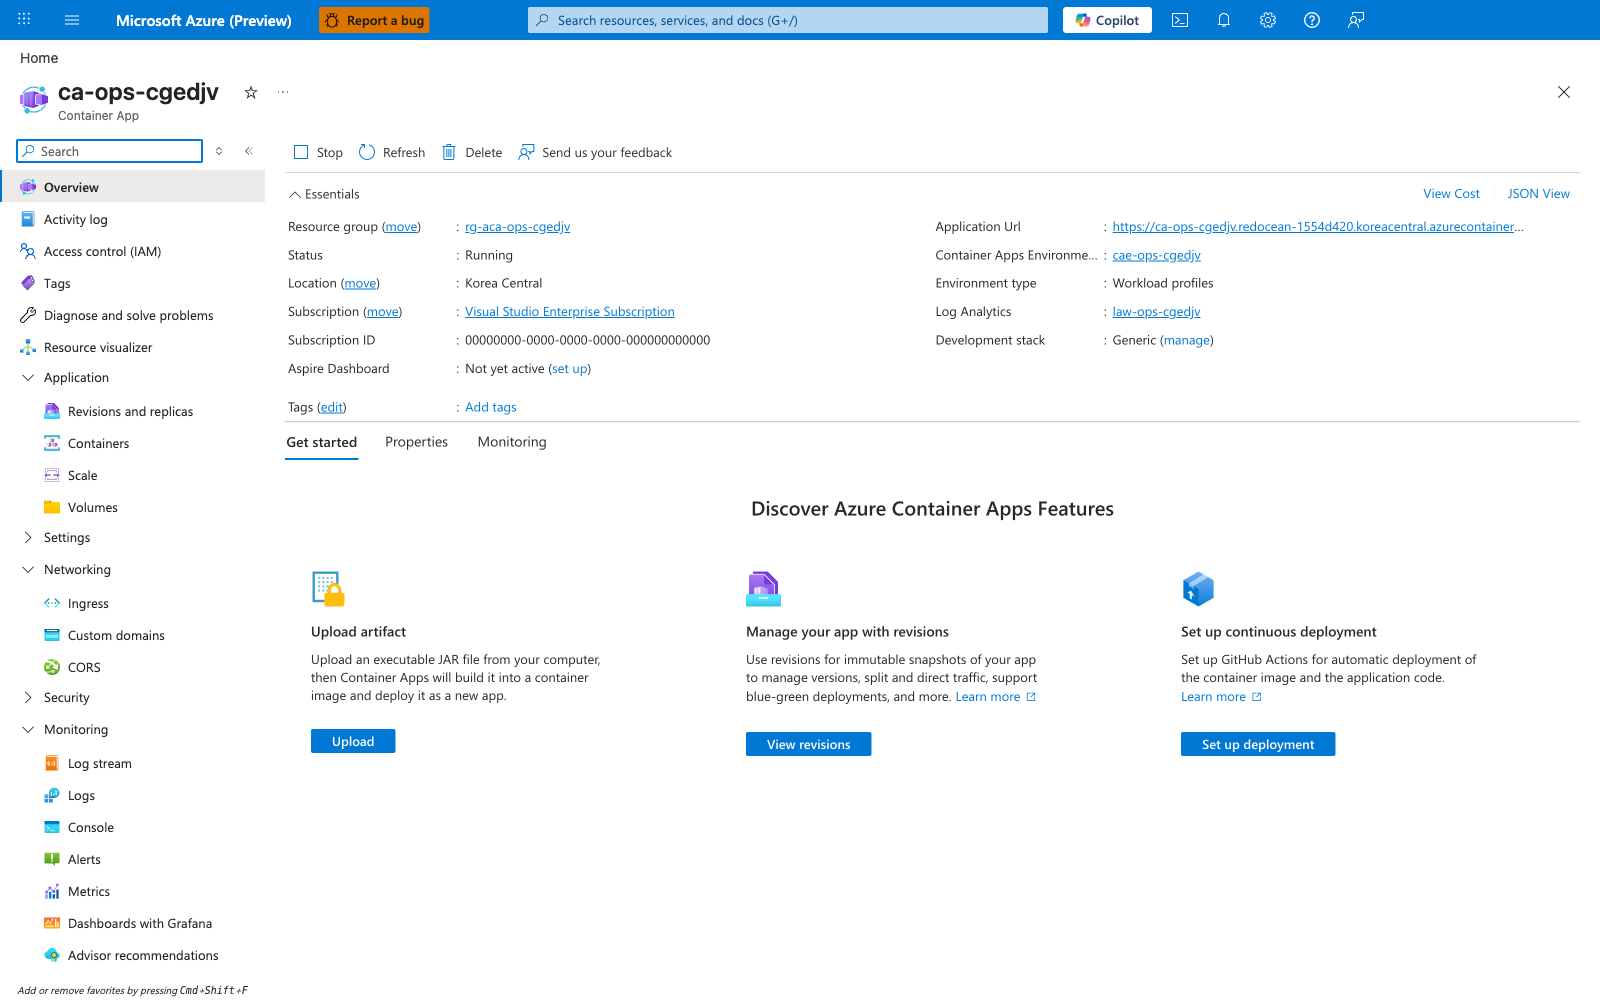
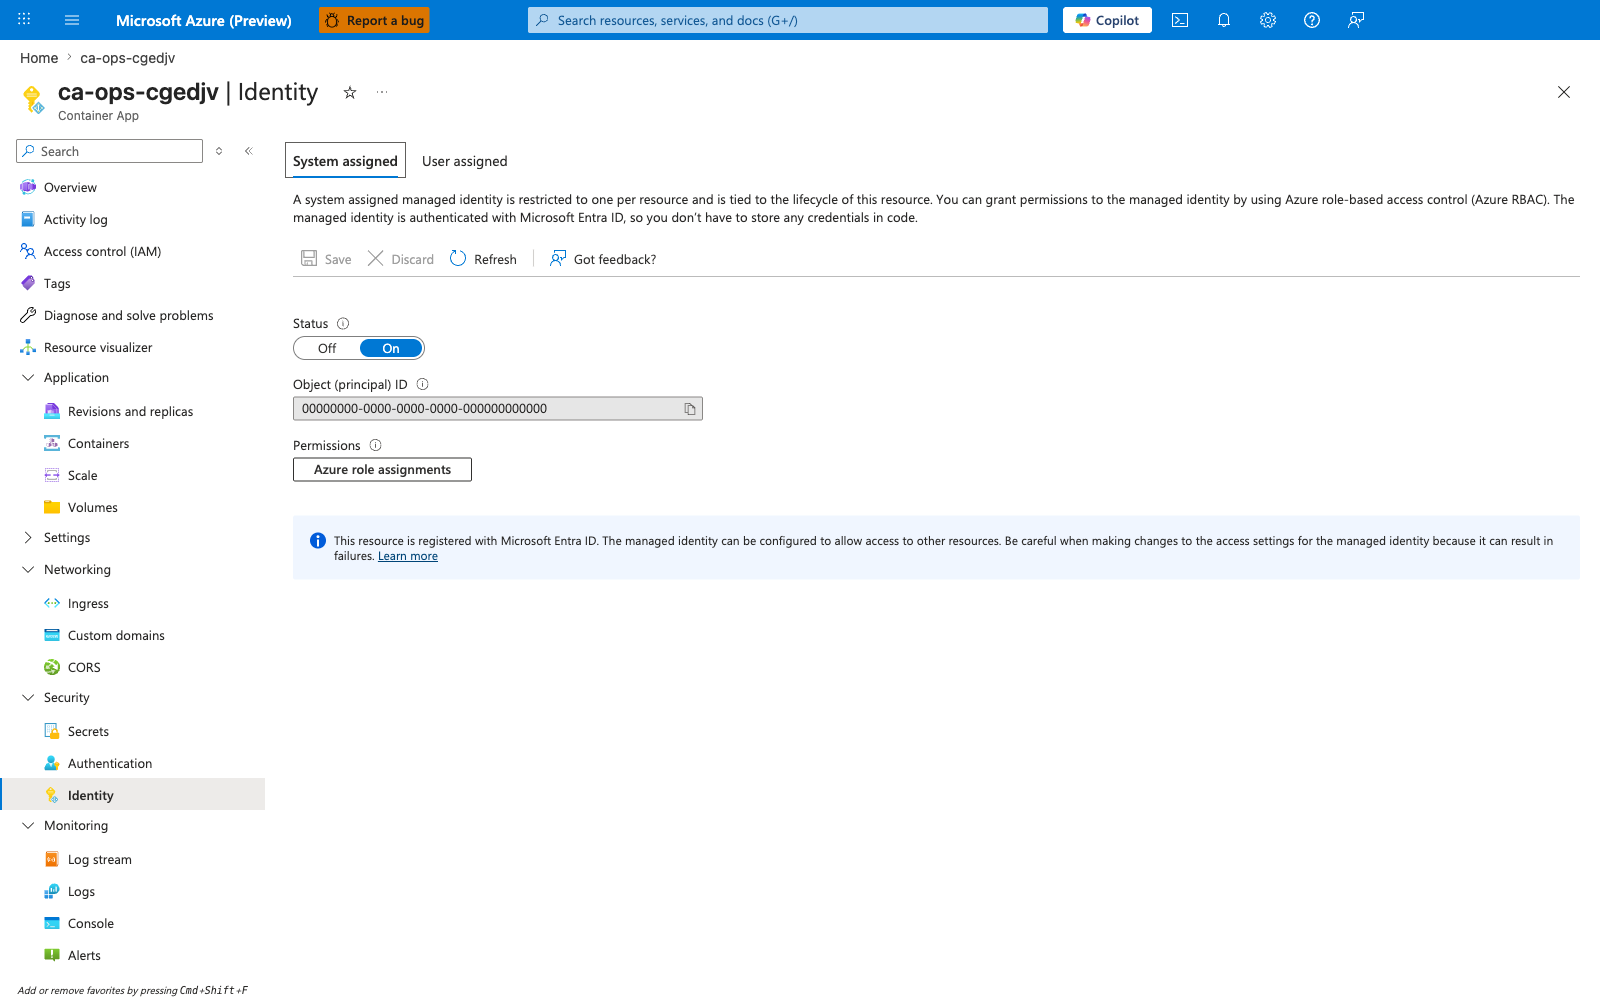
docs: address Oracle review on first-10-minutes captures
- Recapture Step 7 with actual Identity blade (was Overview)
- Split each Portal view block into separate [Observed]/[Inferred]/[Not Proven] paragraphs
- Remove unverified claims (typical lag 1-3 minutes, healthy baseline as Observed, externally resolvable FQDN as Observed)
- Add explicit [Not Proven] paragraphs to Steps 1, 2, 5
- Add note under Step 8 explaining intentional CLI-only coverage

diff --git a/docs/troubleshooting/first-10-minutes/index.md b/docs/troubleshooting/first-10-minutes/index.md
@@ -87,7 +87,11 @@ Navigate: **Container App → Application → Revisions and replicas → Active 
 
 ![Revisions and replicas blade showing one active revision in Running state with 100% traffic and 1 replica](../../assets/troubleshooting/first-10-minutes/01-revisions-and-replicas.png)
 
-`[Observed]` The **Active revisions** tab lists the revision `ca-ops-cgedjv--dkckziz` with **Running status: Running**, **Traffic: 100%**, and **Replicas: 1**. This is the healthy baseline — a single active revision serving all traffic with at least one healthy replica. If the latest revision is missing, shows `Provisioning failed`, or is split into multiple competing revisions, jump to the playbook linked above.
+`[Observed]` The **Active revisions** tab lists the revision `ca-ops-cgedjv--dkckziz` with **Running status: Running**, **Traffic: 100%**, and **Replicas: 1**.
+
+`[Inferred]` A single active revision serving 100% of traffic with a Running replica is the expected steady state for this app, so this snapshot is consistent with a healthy deployment. If the latest revision is missing, shows `Provisioning failed`, or is split into multiple competing revisions, jump to the playbook linked above.
+
+`[Not Proven]` This blade does not confirm that the replica is **handling requests successfully** — only that the platform considers it Running. End-to-end health requires a probe response or a request-log entry (see Step 6 and Step 3).
 
 ## 2) Replica Status
 
@@ -117,7 +121,11 @@ Navigate: **Container App → Application → Revisions and replicas → Replica
 
 ![Replicas tab showing one running replica with revision and creation timestamp](../../assets/troubleshooting/first-10-minutes/02-replicas-tab.png)
 
-`[Observed]` The **Replicas** tab lists a single replica `ca-ops-cgedjv--dkckziz-5f495449d5-vpjzs` in **Running** state. Use this view to confirm replicas are long-lived. `[Inferred]` If you refresh the blade every 30 seconds and see the replica name change repeatedly (different pod-hash suffix), the container is crash-looping even though the revision shows healthy. That symptom maps to [Container Start Failure](../playbooks/startup-and-provisioning/container-start-failure.md).
+`[Observed]` The **Replicas** tab lists a single replica `ca-ops-cgedjv--dkckziz-5f495449d5-vpjzs` in **Running** state, tied to the active revision.
+
+`[Inferred]` If you refresh the blade every 30 seconds and see the replica name change repeatedly (different pod-hash suffix), the container is crash-looping even though the revision shows healthy. That symptom maps to [Container Start Failure](../playbooks/startup-and-provisioning/container-start-failure.md).
+
+`[Not Proven]` A single observation of one Running replica does not prove the replica is long-lived; only repeated refreshes (or `kubectl`-style restart counters, which this blade does not expose) can confirm stability over time.
 
 ## 3) Container Logs
 
@@ -153,7 +161,11 @@ Navigate: **Container App → Monitoring → Log stream**.
 
 ![Log stream blade with replica/container selectors and live stdout/stderr output area](../../assets/troubleshooting/first-10-minutes/03-log-stream.png)
 
-`[Observed]` The **Log stream** blade lets you pick **Replica** and **Container** from drop-downs, then streams stdout/stderr in real time without waiting for Log Analytics ingestion. Use this when a replica has just started and Log Analytics has not yet received the first records (typical lag: 1-3 minutes). `[Not Proven]` Log stream does not show **historical** logs — only what arrives after you open the blade. For root-cause analysis of a past failure, switch to the **Logs** blade and query `ContainerAppConsoleLogs_CL`.
+`[Observed]` The **Log stream** blade exposes **Replica** and **Container** dropdowns above a console area that renders incoming stdout/stderr from the selected target.
+
+`[Inferred]` This surface is the right tool when a replica has just started and you need output immediately — it subscribes to the live log channel rather than querying ingested data, so it avoids whatever ingestion delay the workspace currently has.
+
+`[Not Proven]` The blade does not show **historical** logs — only what arrives after you open it — and the exact ingestion lag for the same lines to appear in `ContainerAppConsoleLogs_CL` is not visible here. For past failures, query the workspace through the **Logs** blade.
 
 ## 4) Image Pull
 
@@ -185,7 +197,11 @@ Navigate: **Container App → Application → Containers → Properties**.
 
 ![Containers Properties tab showing Registry login server, Image and tag fields, and resource allocation](../../assets/troubleshooting/first-10-minutes/04-containers-image-config.png)
 
-`[Observed]` The **Properties** tab under **Containers** shows the **Registry login server** (`mcr.microsoft.com`) and **Image and tag** (`k8se/quickstart:latest`) the platform is attempting to pull. `[Inferred]` If the value here does not match what you pushed, the most recent revision was created from a stale template — check your CI/CD pipeline or `az containerapp update --image` step. `[Not Proven]` This blade only shows the **configured** image reference; whether the pull succeeded must still be verified through system logs (the CLI command above) or the Activity log.
+`[Observed]` The **Properties** tab under **Containers** shows the **Registry login server** (`mcr.microsoft.com`) and **Image and tag** (`k8se/quickstart:latest`) currently configured on the active revision, along with the CPU/memory allocation for the container.
+
+`[Inferred]` If the values here do not match what your last CI/CD run pushed, the most recent revision was created from a stale template — re-check the `az containerapp update --image` step (or equivalent IaC) in the pipeline.
+
+`[Not Proven]` This blade only shows the **configured** image reference; it does not prove the pull actually succeeded. Pull success must still be verified through system logs (the CLI command above) or the Activity log.
 
 ## 5) Ingress Configuration
 
@@ -207,7 +223,11 @@ Navigate: **Container App → Networking → Ingress**.
 
 ![Ingress blade showing Ingress enabled, traffic accepting from Anywhere, target port 80, and transport Auto](../../assets/troubleshooting/first-10-minutes/05-ingress.png)
 
-`[Observed]` The **Ingress** blade shows the binary toggle (**Ingress**: enabled), the traffic-source dropdown (**Accepting traffic from**: Anywhere = external), and the **Target port** field (`80`). The **Application Url** at the top of the blade is the externally resolvable FQDN. `[Inferred]` Three common misconfigurations are visible here at a glance: (1) toggle off → no FQDN issued, (2) **Accepting traffic from** set to **VNet** while you are testing from the public internet → DNS resolves but connection times out, (3) **Target port** does not match the port your app listens on (e.g. app binds `8000` but ingress points at `80`) → connections reset with no app logs.
+`[Observed]` The **Ingress** blade shows **Ingress: enabled**, **Accepting traffic from: Anywhere**, **Target port: 80**, **Transport: Auto**, and an **Application Url** field at the top of the blade.
+
+`[Inferred]` Because **Accepting traffic from** is set to **Anywhere**, the displayed Application Url should be reachable from the public internet — this is the externally exposed FQDN for the app. Three common misconfigurations are visible here at a glance: (1) toggle off → no FQDN issued, (2) **Accepting traffic from** set to **VNet** while you are testing from the public internet → DNS resolves but connection times out, (3) **Target port** does not match the port your app listens on (e.g. app binds `8000` but ingress points at `80`) → connections reset with no app logs.
+
+`[Not Proven]` This blade does not prove the FQDN actually resolves in public DNS or that an HTTP request reaches the container — confirm with `curl -v https://<fqdn>/` from outside the VNet.
 
 ## 6) Health Probes
 
@@ -232,7 +252,11 @@ Navigate: **Container App → Application → Containers → Health probes**.
 
 ![Containers Health probes tab showing Startup, Liveness, and Readiness probe configuration](../../assets/troubleshooting/first-10-minutes/06-health-probes.png)
 
-`[Observed]` The **Health probes** tab exposes the three probe types (**Startup**, **Liveness**, **Readiness**) and lets you inspect each one's transport (HTTP/TCP/gRPC), path, port, and timing fields without parsing JSON. `[Inferred]` This is the fastest way to spot the three classic probe mistakes: (1) path returns 404 in the app's router → readiness flaps, (2) **Startup probe** timeout shorter than actual boot time (e.g. 30 s for an app that needs 60 s to warm a model) → revision never goes Ready, (3) probe **Port** does not match the container's listening port → TCP probe succeeds (port open) but HTTP probe fails. `[Not Proven]` The Portal does not show **historical** probe results; for that, query `ContainerAppSystemLogs_CL | where Reason_s in ("LivenessProbeFailed","ReadinessProbeFailed","StartupProbeFailed")` in Log Analytics.
+`[Observed]` The **Health probes** tab under **Containers** lists the three probe types — **Startup**, **Liveness**, **Readiness** — and exposes each one's transport (HTTP/TCP/gRPC), path, port, and timing fields without requiring you to parse the revision JSON.
+
+`[Inferred]` This view is the fastest way to catch the three classic probe mistakes: (1) path returns 404 in the app's router → readiness flaps, (2) **Startup probe** timeout shorter than actual boot time (e.g. 30 s for an app that needs 60 s to warm a model) → revision never goes Ready, (3) probe **Port** does not match the container's listening port → TCP probe succeeds (port open) but HTTP probe fails.
+
+`[Not Proven]` The Portal does not show **historical** probe results; for that, query `ContainerAppSystemLogs_CL | where Reason_s in ("LivenessProbeFailed","ReadinessProbeFailed","StartupProbeFailed")` in Log Analytics.
 
 ## 7) Registry Authentication
 
@@ -253,9 +277,13 @@ az role assignment list --scope "$(az acr show --name "$ACR_NAME" --query id --o
 
 Navigate: **Container App → Settings → Identity**.
 
-![Identity blade showing system-assigned managed identity enabled with Object ID and Permissions Azure role assignments link](../../assets/troubleshooting/first-10-minutes/07-identity.png)
+![Identity blade System assigned tab showing Status On, Object principal ID, and an Azure role assignments button](../../assets/troubleshooting/first-10-minutes/07-identity.png)
 
-`[Observed]` The **System assigned** tab shows **Status: On** and exposes the **Object (principal) ID** the platform uses for token requests, plus a **Permissions / Azure role assignments** link that pivots to the IAM blade scoped to this identity. The **User assigned** tab (separate) lists any user-assigned identities attached to the app. `[Inferred]` If **Status: Off**, the app cannot use managed identity at all — registry pulls fall back to admin credentials (which may be disabled on hardened ACRs) and any Key Vault references fail at revision-provisioning time. `[Not Proven]` This blade does not show **which** revisions are using the identity — that detail lives in the revision's Containers configuration.
+`[Observed]` The **System assigned** tab shows **Status: On**, an **Object (principal) ID** value, a **User assigned** sibling tab, and an **Azure role assignments** button under **Permissions**. A notice at the bottom of the blade confirms the resource is **registered with Microsoft Entra ID**.
+
+`[Inferred]` If **Status** is **Off**, the app cannot use a system-assigned managed identity at all — registry pulls fall back to admin credentials (which may be disabled on hardened ACRs) and any Key Vault references fail at revision-provisioning time. The **Azure role assignments** button is the quickest way to verify that this Object ID actually holds `AcrPull` (or whatever role) on the registry scope.
+
+`[Not Proven]` This blade does not show which **revisions** are currently using the identity, nor whether a recent role assignment has propagated through Entra ID — propagation can lag image-pull attempts by minutes.
 
 ## 8) Secrets and Config
 
@@ -271,6 +299,9 @@ az containerapp show --name "$APP_NAME" --resource-group "$RG" --query "properti
 - Confirm secret references exist and expected environment variables are present.
 - Failure patterns: `secretRef` points to missing secret, null env var values, stale revision after secret update.
 - If failed → go to [Secret and Key Vault Reference Failure](../playbooks/identity-and-configuration/secret-and-key-vault-reference-failure.md) and [Revision Provisioning Failure](../playbooks/startup-and-provisioning/revision-provisioning-failure.md).
+
+!!! note "Portal capture intentionally omitted for this step"
+    The Portal **Secrets** blade is intentionally not captured for this step. The CLI commands above are authoritative because they print secret **references** (env-var name → secret name → Key Vault URI) in a single output, which the Portal splits across multiple blades. Use the CLI as the source of truth for triage; open the Portal **Secrets** blade only when you need the inline edit/version UI.
 
 ## 9) Environment and Network
 
@@ -293,7 +324,11 @@ Navigate: **Container Apps Environment → Overview**.
 
 ![Container Apps Environment overview blade with status, location, subscription, and links to Log Analytics and apps](../../assets/troubleshooting/first-10-minutes/09-environment-overview.png)
 
-`[Observed]` The **Environment** Overview shows **Status: Succeeded**, the linked **Log Analytics workspace**, the **Environment type** (Workload profiles or Consumption only), and the list of Container Apps deployed inside. `[Inferred]` If the environment is in a custom VNet, the Overview also exposes the **Infrastructure subnet** — verify outbound rules on its NSG and route table here. If the environment status is anything other than **Succeeded** (`Failed`, `Updating`, `Canceled`), every app inside is affected; fix the environment before debugging individual apps. `[Not Proven]` The Overview does not show DNS resolution success or NSG flow logs — use **Network Watcher → Connection Troubleshoot** from the environment's subnet to test specific dependency endpoints.
+`[Observed]` The **Environment** Overview blade shows **Status: Succeeded**, the linked **Log Analytics workspace**, the **Environment type** (Workload profiles or Consumption only), and the list of Container Apps deployed inside the environment.
+
+`[Inferred]` If the environment is in a custom VNet, the Overview also exposes the **Infrastructure subnet** — use that as the starting point for verifying outbound NSG rules and route tables. If the environment status is anything other than **Succeeded** (`Failed`, `Updating`, `Canceled`), every app inside is affected; fix the environment before debugging individual apps.
+
+`[Not Proven]` The Overview does not show DNS resolution success or NSG flow logs — use **Network Watcher → Connection Troubleshoot** from the environment's subnet to test specific dependency endpoints.
 
 ## 10) Dependencies
 
@@ -315,7 +350,11 @@ Navigate: **Container App → Monitoring → Console**.
 
 ![Console blade with replica and container selectors and a Choose start up command dialog offering /bin/sh, /bin/bash, or Custom](../../assets/troubleshooting/first-10-minutes/10-console.png)
 
-`[Observed]` The **Console** blade lets you select a **Replica** and **Container**, then opens an in-browser shell prompted by the **Choose start up command** dialog (`/bin/sh`, `/bin/bash`, or a custom command). Once attached, run dependency probes interactively (`nslookup`, `curl -v`, `nc -zv`) without needing `az containerapp exec` from your laptop. `[Inferred]` If **Reconnect** loops or the shell exits immediately, the container image lacks a shell (distroless / scratch base) — verify dependencies from a sidecar or rebuild with a debug image. `[Not Proven]` The Console runs **inside one replica**; a single successful probe does not prove every replica can reach the same dependency. Repeat against multiple replicas if you suspect intermittent network issues.
+`[Observed]` The **Console** blade exposes **Replica** and **Container** dropdowns and opens a **Choose start up command** dialog offering `/bin/sh`, `/bin/bash`, or a custom command before attaching an in-browser shell.
+
+`[Inferred]` Once attached, you can run dependency probes interactively (`nslookup`, `curl -v`, `nc -zv`) without needing `az containerapp exec` from your laptop, which is useful when corporate egress blocks the CLI control plane. If **Reconnect** loops or the shell exits immediately, the container image likely lacks a shell (distroless / scratch base) — verify dependencies from a sidecar or rebuild with a debug image.
+
+`[Not Proven]` The Console runs **inside one replica**; a single successful probe does not prove every replica can reach the same dependency. Repeat against multiple replicas if you suspect intermittent network issues.
 
 ## Escalate with Context
 